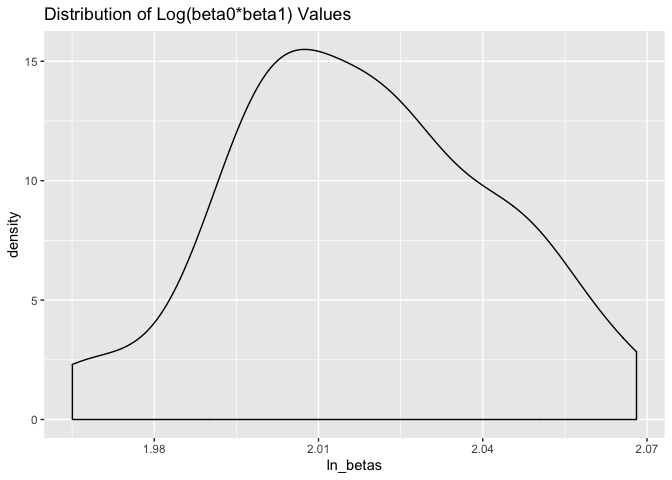
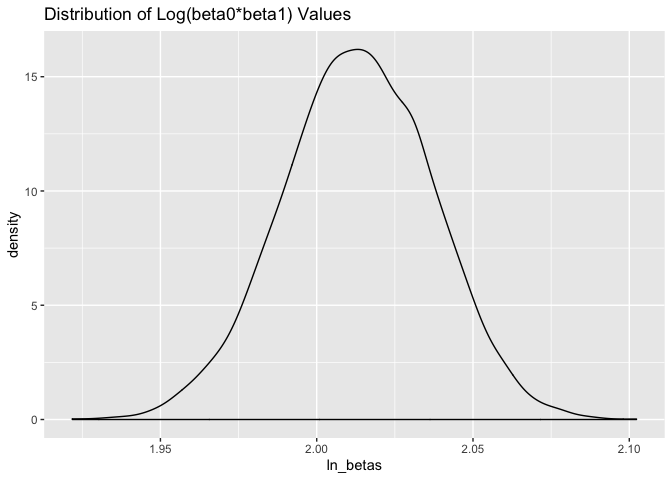
finished. Will most likely review again, but will submit link via courseworks for now.

diff --git a/p8105_hw6_hf2379.md b/p8105_hw6_hf2379.md
@@ -2,20 +2,26 @@ HW6
 ================
 Holly Finertie - HF2379
 
-    ## ── Attaching packages ──────────────────────────────────────── tidyverse 1.2.1 ──
+    ## ── Attaching packages ──────────────────────────────────── tidyverse 1.2.1 ──
 
     ## ✔ ggplot2 3.2.1     ✔ purrr   0.3.2
     ## ✔ tibble  2.1.3     ✔ dplyr   0.8.3
     ## ✔ tidyr   1.0.0     ✔ stringr 1.4.0
     ## ✔ readr   1.3.1     ✔ forcats 0.4.0
 
-    ## ── Conflicts ─────────────────────────────────────────── tidyverse_conflicts() ──
+    ## ── Conflicts ─────────────────────────────────────── tidyverse_conflicts() ──
     ## ✖ dplyr::filter() masks stats::filter()
     ## ✖ dplyr::lag()    masks stats::lag()
 
 ## Problem 1
 
 ### a) Load and tidy dataset:
+
+  - Confirmed no missing values
+  - Converted race, malformation, and xex variables to factors
+  - Converted variables with imperial units to metric
+
+<!-- end list -->
 
 ``` r
 birthweight = read_csv("./data/birthweight.csv") %>% 
@@ -39,7 +45,11 @@ birthweight = read_csv("./data/birthweight.csv") %>%
               `2` = "Black",
               `3` = "Asian", 
               `4` = "Puerto Rican", 
-              `8` = "Other"))) 
+              `8` = "Other")), 
+    delwt = 453.592*delwt, 
+    ppwt = 453.592*ppwt, 
+    wtgain = 453.592*wtgain, 
+    mheight = 2.54*mheight)
 ```
 
     ## Parsed with column specification:
@@ -55,16 +65,16 @@ anyNA(birthweight)
 
     ## [1] FALSE
 
-### b) Build a model:
+### b) Model Building:
 
 Many factors, including biological and social, affect birthweight. Per
 [March of
 Dimes](https://www.marchofdimes.org/complications/low-birthweight.aspxl),
-social factors that affect low birthweight include substances use, SES,
+social factors that affect low birthweight include substance use, SES,
 violence, and race. Using the variables available in the
 `birthweight.csv` dataset, I hypothesize that family income, mother’s
 race, and number of cigarettes smoked per day during pregnancy will be
-significantly associated with birthweight.
+significantly associated with birthweight in grams.
 
 First, I will test the bivariate associations between birthweight and
 each covariate of interest. Covariates significant at p-value \<0.25
@@ -81,12 +91,20 @@ bwt_model = birthweight %>%
 model_fincome = lm(bwt ~ fincome, data = bwt_model) %>% 
   broom::tidy() %>% 
   select(term, estimate, p.value) 
+
+model_fincome %>% knitr::kable(digits = 3)
 ```
 
-  - **Birthweight and Family Income:** At the 5% level of significant,
-    family income is significantly associated with birthweight. For
-    every $100 increase in monthly income, birthweight increases by 3.05
-    grams.
+| term        | estimate | p.value |
+| :---------- | -------: | ------: |
+| (Intercept) | 2979.987 |       0 |
+| fincome     |    3.048 |       0 |
+
+  - **Birthweight and Family Income:** At the specified 25% level of
+    significant, family income is significantly associated with
+    birthweight. For every $100 increase in monthly income, birthweight
+    increases by 3.05 grams. This variable will be considered in the
+    final model.
 
 <!-- end list -->
 
@@ -94,14 +112,25 @@ model_fincome = lm(bwt ~ fincome, data = bwt_model) %>%
 model_mrace = lm(bwt ~  mrace, data = bwt_model) %>% 
   broom::tidy() %>% 
   select(term, estimate, p.value) 
+
+model_mrace %>% knitr::kable(digits = 3)
 ```
 
-  - **Birthweight and Mother’s Race:** At the 5% level of significant,
-    mother’s race is significantly associated with birthweight. Compared
-    to white mothers, all other races have baby’s with a lower
-    birthweight. Black mothers have baby’s who weigh -316.56 grams less.
-    Puerto Rican mothers have baby’s who weigh -211.32 grams less. Asian
-    mothers have baby’s who weigh -126.43 grams less.
+| term              |  estimate | p.value |
+| :---------------- | --------: | ------: |
+| (Intercept)       |  3266.663 |   0.000 |
+| mraceBlack        | \-316.564 |   0.000 |
+| mracePuerto Rican | \-211.321 |   0.000 |
+| mraceAsian        | \-126.430 |   0.093 |
+
+  - **Birthweight and Mother’s Race:** At the specified 25% level of
+    significant, mother’s race is significantly associated with
+    birthweight. Compared to white mothers, all other races have baby’s
+    with a lower birthweight. Black mothers have baby’s who weigh
+    -316.56 grams less. Puerto Rican mothers have baby’s who weigh
+    -211.32 grams less. Asian mothers have baby’s who weigh -126.43
+    grams less. These indicator variables will be considered in the
+    final model.
 
 <!-- end list -->
 
@@ -109,11 +138,20 @@ model_mrace = lm(bwt ~  mrace, data = bwt_model) %>%
 model_smoken = lm(bwt ~  smoken, data = bwt_model) %>% 
   broom::tidy() %>% 
   select(term, estimate, p.value)
+
+model_smoken %>% knitr::kable(digits = 3)
 ```
 
-  - **Birthweight and Smoking:** At the 5% level of significant, smoking
-    is significantly associated with birthweight. For every 1 additional
-    cigarette smoked per day, birthweight decreases -5.23 grams.
+| term        | estimate | p.value |
+| :---------- | -------: | ------: |
+| (Intercept) | 3136.079 |       0 |
+| smoken      |  \-5.229 |       0 |
+
+  - **Birthweight and Smoking:** At the specified 25% level of
+    significant, smoking is significantly associated with birthweight.
+    For every 1 additional cigarette smoked per day, birthweight
+    decreases -5.23 grams. This variable will be considered in the final
+    model.
 
 #### Multivariable Analysis
 
@@ -143,17 +181,33 @@ tidy_social
 | mraceAsian        | \-177.071 |   0.018 |
 | smoken            |  \-11.099 |   0.000 |
 
-All three variables are significant at a 5% alpha level.
+``` r
+glanced_social = model_social %>% 
+  broom::glance()
+```
+
+All three variables are significant at a 5% alpha level. Additionally,
+the model describes 12% of the total variance in birthweight (R-squared
+= 0.12). Using the reported F-statistic of 113.03 and p-value of 0, we
+can conclude that this model fits the data better than a model with only
+an intercept.
+
+#### Model Residuals Against Fitted Values
 
 ``` r
 added_social = bwt_model %>% 
   modelr::add_residuals(model_social) %>% 
   modelr::add_predictions(model_social)
 
-plot_social = added_social %>% 
+added_social %>% 
   ggplot(aes(x = pred, y = resid)) +
-  geom_point()
+  geom_point() +
+  labs(
+    title = "Plot of Residuals and Fitted Values"
+  )
 ```
+
+![](p8105_hw6_hf2379_files/figure-gfm/unnamed-chunk-7-1.png)<!-- -->
 
 ### c) Test Against Other Models:
 
@@ -176,42 +230,42 @@ bwt_cv %>% pull(train) %>% .[[1]] %>% as_tibble
 ```
 
     ## # A tibble: 3,473 x 20
-    ##    babysex bhead blength   bwt delwt fincome frace gaweeks malform menarche
-    ##    <fct>   <dbl>   <dbl> <dbl> <dbl>   <dbl> <fct>   <dbl> <fct>      <dbl>
-    ##  1 Female     34      51  3629   177      35 White    39.9 Absent        13
-    ##  2 Male       34      52  3062   157      55 White    40   Absent        14
-    ##  3 Female     34      52  3374   156       5 White    41.6 Absent        13
-    ##  4 Male       36      52  3515   146      85 White    40.3 Absent        11
-    ##  5 Male       33      50  3459   169      75 Black    40.7 Absent        12
-    ##  6 Female     35      51  3317   130      55 White    43.4 Absent        13
-    ##  7 Female     35      48  3175   158      75 White    39.7 Absent        13
-    ##  8 Male       36      53  3629   147      75 White    41.3 Absent        11
-    ##  9 Female     33      49  2551   120      75 Black    38.1 Absent        11
-    ## 10 Male       35      56  3232   147      55 White    42.1 Absent        13
-    ## # … with 3,463 more rows, and 10 more variables: mheight <dbl>,
-    ## #   momage <dbl>, mrace <fct>, parity <dbl>, pnumlbw <dbl>, pnumsga <dbl>,
-    ## #   ppbmi <dbl>, ppwt <dbl>, smoken <dbl>, wtgain <dbl>
+    ##    babysex bhead blength   bwt  delwt fincome frace gaweeks malform
+    ##    <fct>   <dbl>   <dbl> <dbl>  <dbl>   <dbl> <fct>   <dbl> <fct>  
+    ##  1 Female     34      51  3629 80286.      35 White    39.9 Absent 
+    ##  2 Male       34      48  3062 70760.      65 Black    25.9 Absent 
+    ##  3 Female     34      52  3374 70760.       5 White    41.6 Absent 
+    ##  4 Male       33      52  3374 58513.      55 White    40.7 Absent 
+    ##  5 Female     33      49  2778 63503.       5 White    37.4 Absent 
+    ##  6 Male       36      52  3515 66224.      85 White    40.3 Absent 
+    ##  7 Male       33      50  3459 76657.      75 Black    40.7 Absent 
+    ##  8 Male       35      51  3459 66224.      55 White    39.4 Absent 
+    ##  9 Male       35      51  3544 58513.      65 White    39.6 Absent 
+    ## 10 Female     33      49  2551 54431.      75 Black    38.1 Absent 
+    ## # … with 3,463 more rows, and 11 more variables: menarche <dbl>,
+    ## #   mheight <dbl>, momage <dbl>, mrace <fct>, parity <dbl>, pnumlbw <dbl>,
+    ## #   pnumsga <dbl>, ppbmi <dbl>, ppwt <dbl>, smoken <dbl>, wtgain <dbl>
 
 ``` r
 bwt_cv %>% pull(test) %>% .[[1]] %>% as_tibble
 ```
 
     ## # A tibble: 869 x 20
-    ##    babysex bhead blength   bwt delwt fincome frace gaweeks malform menarche
-    ##    <fct>   <dbl>   <dbl> <dbl> <dbl>   <dbl> <fct>   <dbl> <fct>      <dbl>
-    ##  1 Male       34      48  3062   156      65 Black    25.9 Absent        14
-    ##  2 Female     36      50  3345   148      85 White    39.9 Absent        12
-    ##  3 Male       33      52  3374   129      55 White    40.7 Absent        12
-    ##  4 Female     33      46  2523   126      96 Black    40.3 Absent        14
-    ##  5 Female     33      49  2778   140       5 White    37.4 Absent        12
-    ##  6 Male       35      51  3459   146      55 White    39.4 Absent        12
-    ##  7 Male       35      51  3544   129      65 White    39.6 Absent        12
-    ##  8 Female     36      51  2977   135      45 White    41.7 Absent        13
-    ##  9 Female     35      51  3827   130      45 White    41.3 Absent        12
-    ## 10 Male       35      53  3175   130      45 White    40.4 Absent        13
-    ## # … with 859 more rows, and 10 more variables: mheight <dbl>,
-    ## #   momage <dbl>, mrace <fct>, parity <dbl>, pnumlbw <dbl>, pnumsga <dbl>,
-    ## #   ppbmi <dbl>, ppwt <dbl>, smoken <dbl>, wtgain <dbl>
+    ##    babysex bhead blength   bwt  delwt fincome frace gaweeks malform
+    ##    <fct>   <dbl>   <dbl> <dbl>  <dbl>   <dbl> <fct>   <dbl> <fct>  
+    ##  1 Female     36      50  3345 67132.      85 White    39.9 Absent 
+    ##  2 Male       34      52  3062 71214.      55 White    40   Absent 
+    ##  3 Female     33      46  2523 57153.      96 Black    40.3 Absent 
+    ##  4 Female     35      51  3317 58967.      55 White    43.4 Absent 
+    ##  5 Female     35      48  3175 71668.      75 White    39.7 Absent 
+    ##  6 Male       36      53  3629 66678.      75 White    41.3 Absent 
+    ##  7 Female     35      51  3827 58967.      45 White    41.3 Absent 
+    ##  8 Male       35      52  3232 54885.      75 Asian    42.3 Absent 
+    ##  9 Female     36      51  3317 61689.      65 White    42.6 Absent 
+    ## 10 Male       34      52  3118 58967.      75 White    41   Absent 
+    ## # … with 859 more rows, and 11 more variables: menarche <dbl>,
+    ## #   mheight <dbl>, momage <dbl>, mrace <fct>, parity <dbl>, pnumlbw <dbl>,
+    ## #   pnumsga <dbl>, ppbmi <dbl>, ppwt <dbl>, smoken <dbl>, wtgain <dbl>
 
 ``` r
 bwt_cv =
@@ -284,7 +338,7 @@ weather_df =
 
 ``` r
 weather_bootstrap = weather_df %>% 
-  modelr::bootstrap(n = 50) %>% 
+  modelr::bootstrap(n = 5000) %>% 
   mutate(
     models = map(strap, ~ lm(tmax ~ tmin, data = .x)),
     results = map(models, broom::tidy), 
@@ -309,8 +363,11 @@ weather_bootstrap = weather_df %>%
 ### Plots
 
 **1) R-squared**  
-The plot below shows the distribution of R-squared. The 95% confidence
-interval for R-squared is (0.9, 0.93).
+The plot below shows the distribution of R-squared values. The 95%
+confidence interval for R-squared is (0.89, 0.93). The distribution is
+left skewed, with more outliers with lower values. Across the the 5,000
+bootstraps, the mean R-squared value is 0.911 which is slightly lower
+than the median 0.912 due to the skewness.
 
 ``` r
 weather_bootstrap %>% 
@@ -324,8 +381,12 @@ weather_bootstrap %>%
 ![](p8105_hw6_hf2379_files/figure-gfm/unnamed-chunk-10-1.png)<!-- -->
 
 **2) Log(beta0 x beta1)**  
-The plot below shows the distribution of log(beta0\* beta1). The 95%
-confidence interval for the log(beta0\*beta1) is (1.97, 2.06).
+The plot below shows the distribution of log(beta0\* beta1) values. The
+95% confidence interval for the log(beta0\*beta1) is (1.96, 2.06).
+Visually, the distribution does not have any obvious skewness or
+outliers and may follow a relatively normal distribution. Across the the
+5,000 bootstraps, the mean value is 2.013 which is the same as the
+median 2.013 indicating no skewness in the distribution.
 
 ``` r
 weather_bootstrap %>% 
